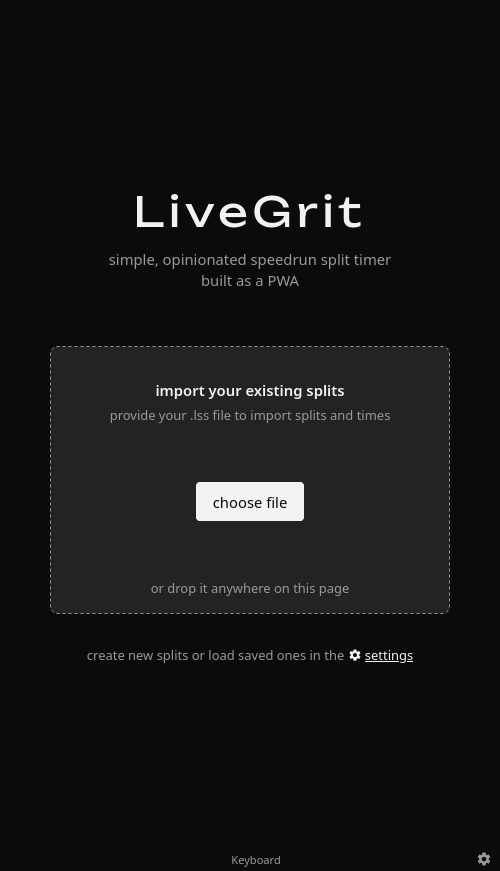
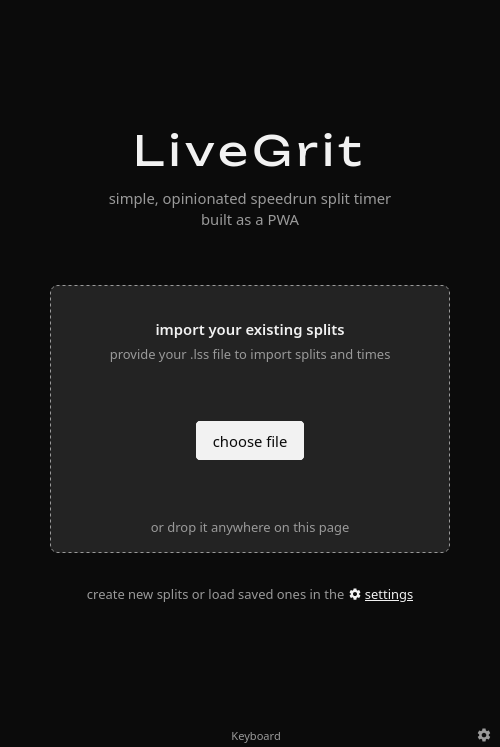
updated images

diff --git a/README.md b/README.md
@@ -6,7 +6,11 @@ It's built with Svelte 5, TypeScript and Vite, and uses [livesplit-core](https:/
 
 > Try [LiveGrit](https://kryptografisch.github.io/livegrit) now.
 
-![LiveGrit screenshots: home, main timer view, and the settings pages for splits, timer and controls](docs/images/overview.png)
+<img src="docs/images/overview-timer.png" alt="home screen and timer during a run" width="100%" />
+
+<img src="docs/images/overview-splits.png" alt="settings: splits with base info, golds and times" width="100%" />
+
+<img src="docs/images/overview-settings.png" alt="settings: timer, controls and data" width="100%" />
 
 ## Usage
 
